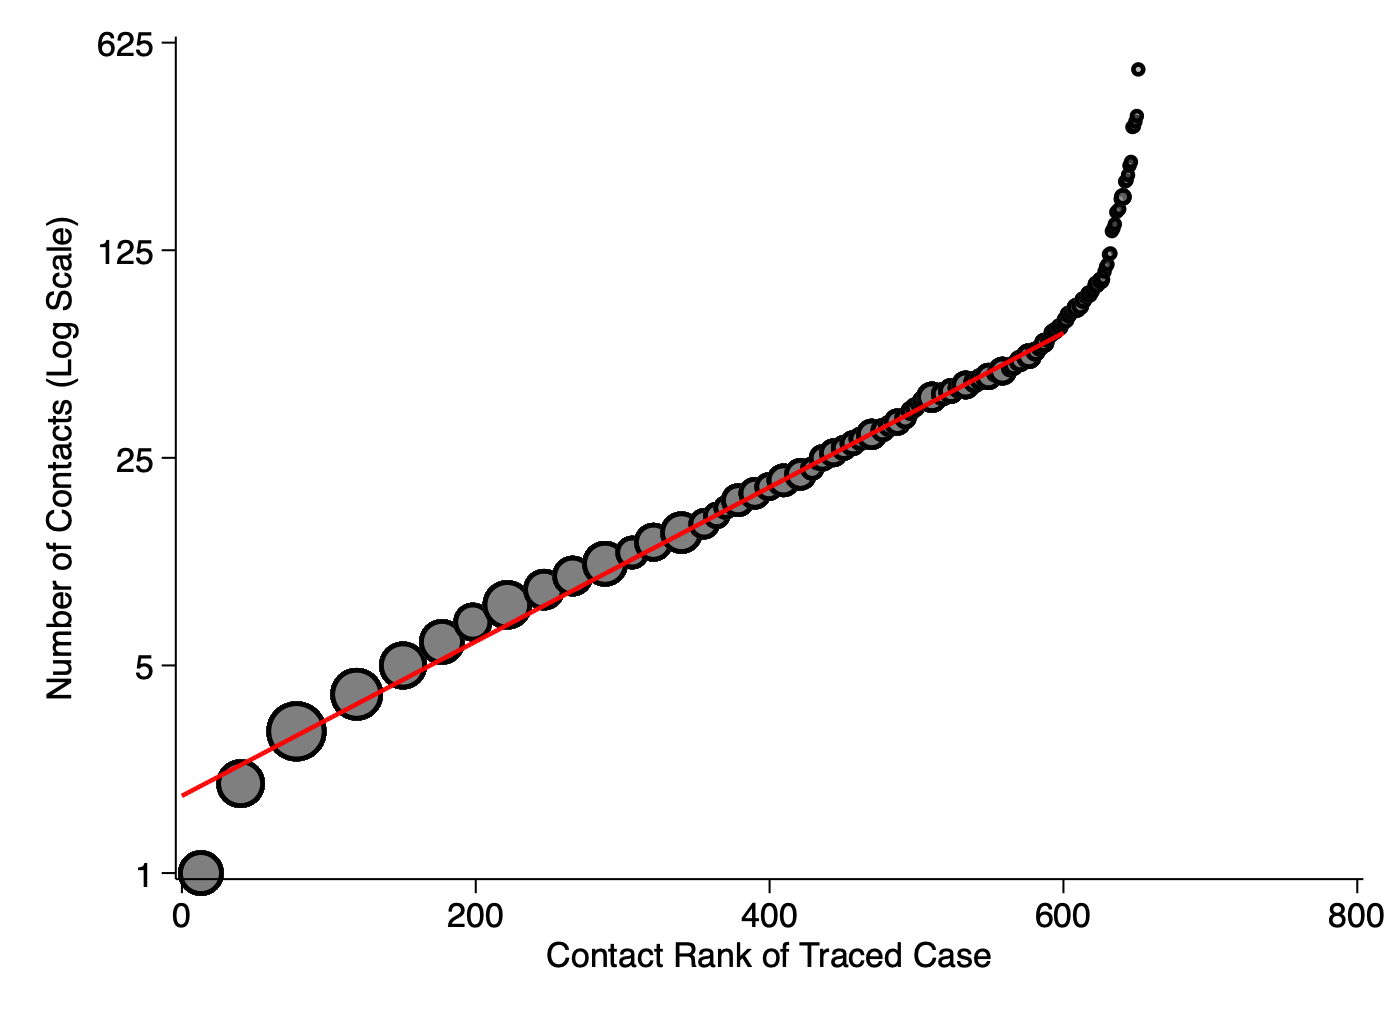
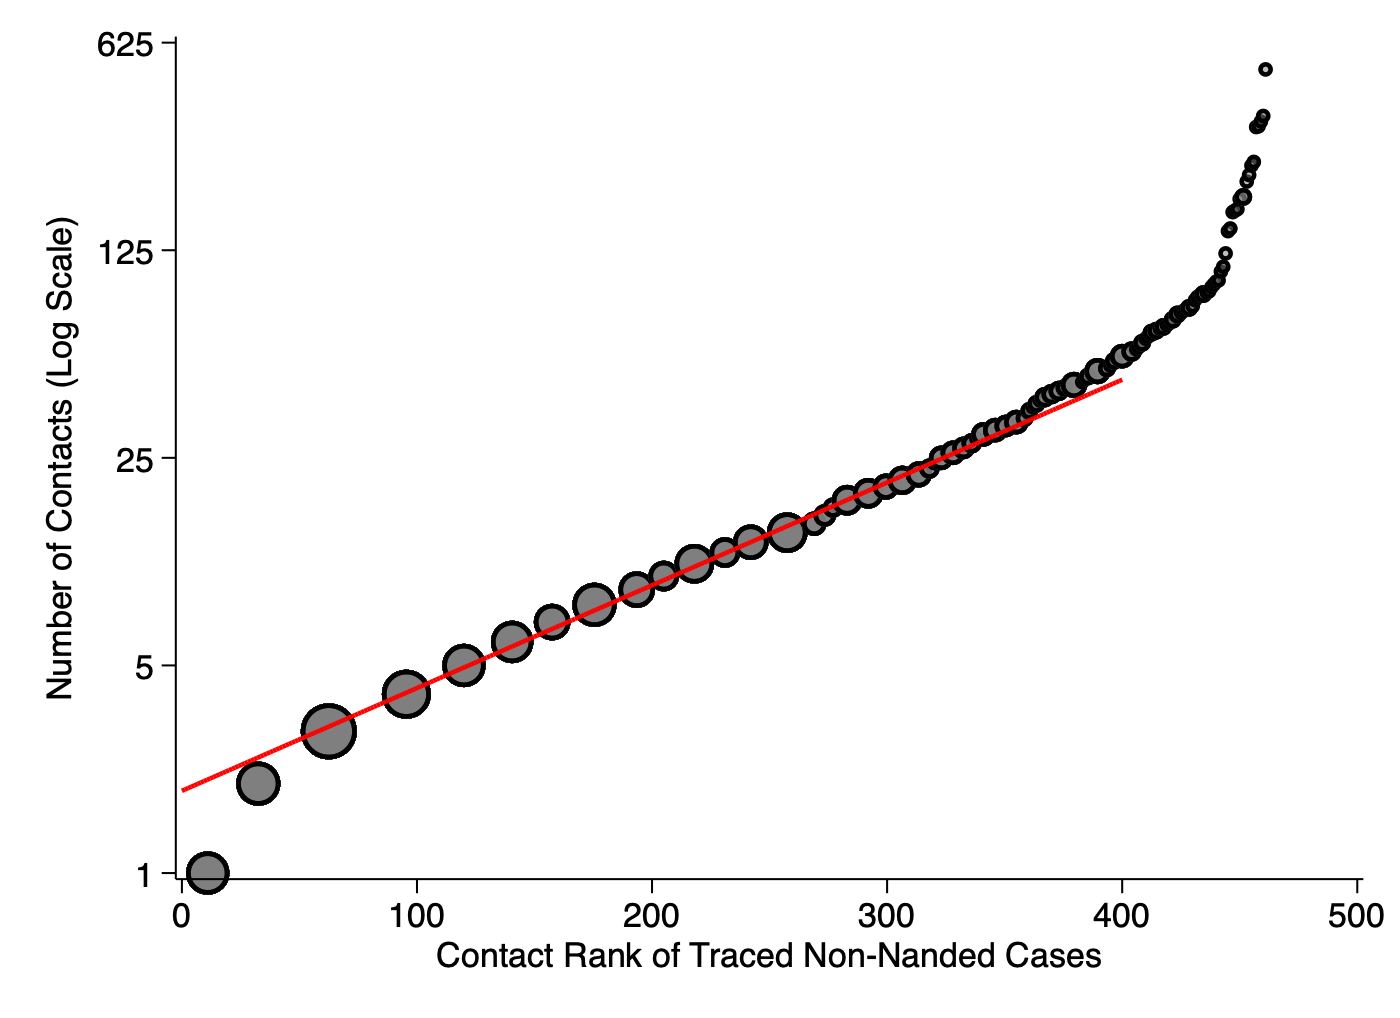
Non-Nanded

diff --git a/outputs/contact-tracing/README.md b/outputs/contact-tracing/README.md
@@ -2,6 +2,6 @@
 
 ## Appendix Figure 2. Log-Rank Plot of Contacts
 
-**Note:** Linear fit equation y = (1.006^(x+100)).
+**Note:** Linear fit equation y = (1.008^(x+80)).
 Size of bubble indicates relative number of observations.
 ![](logrank.png)
